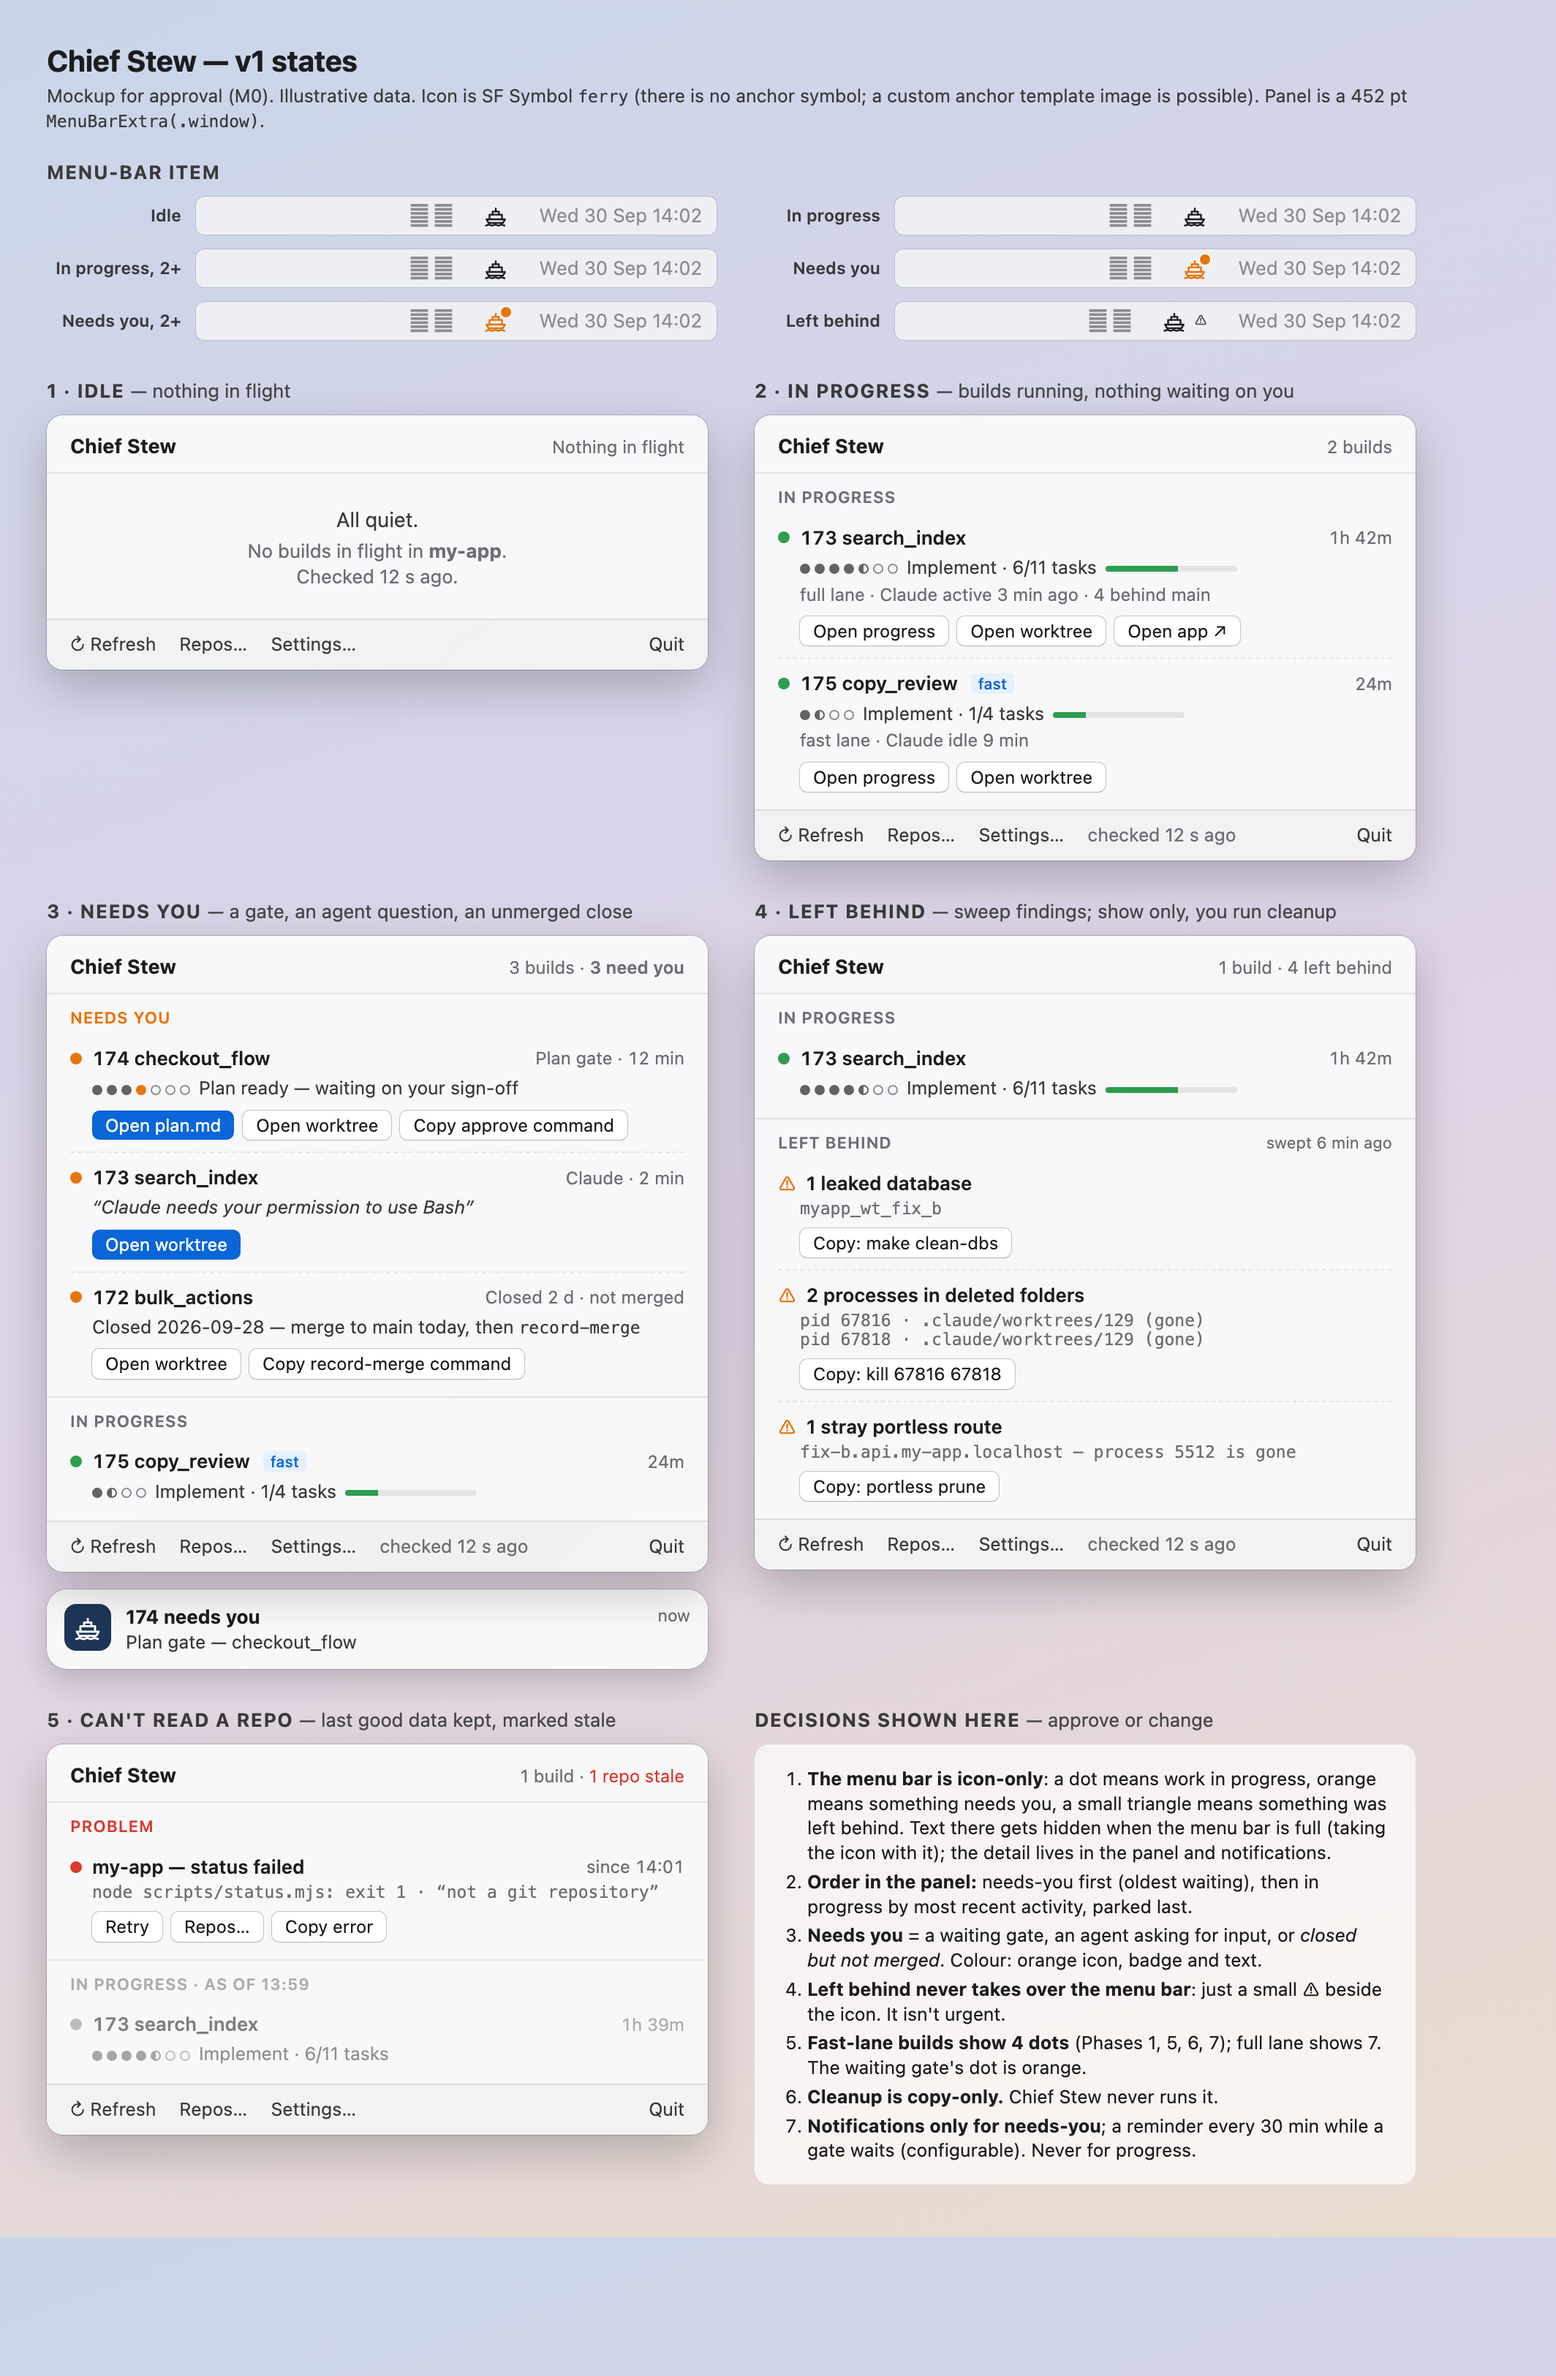
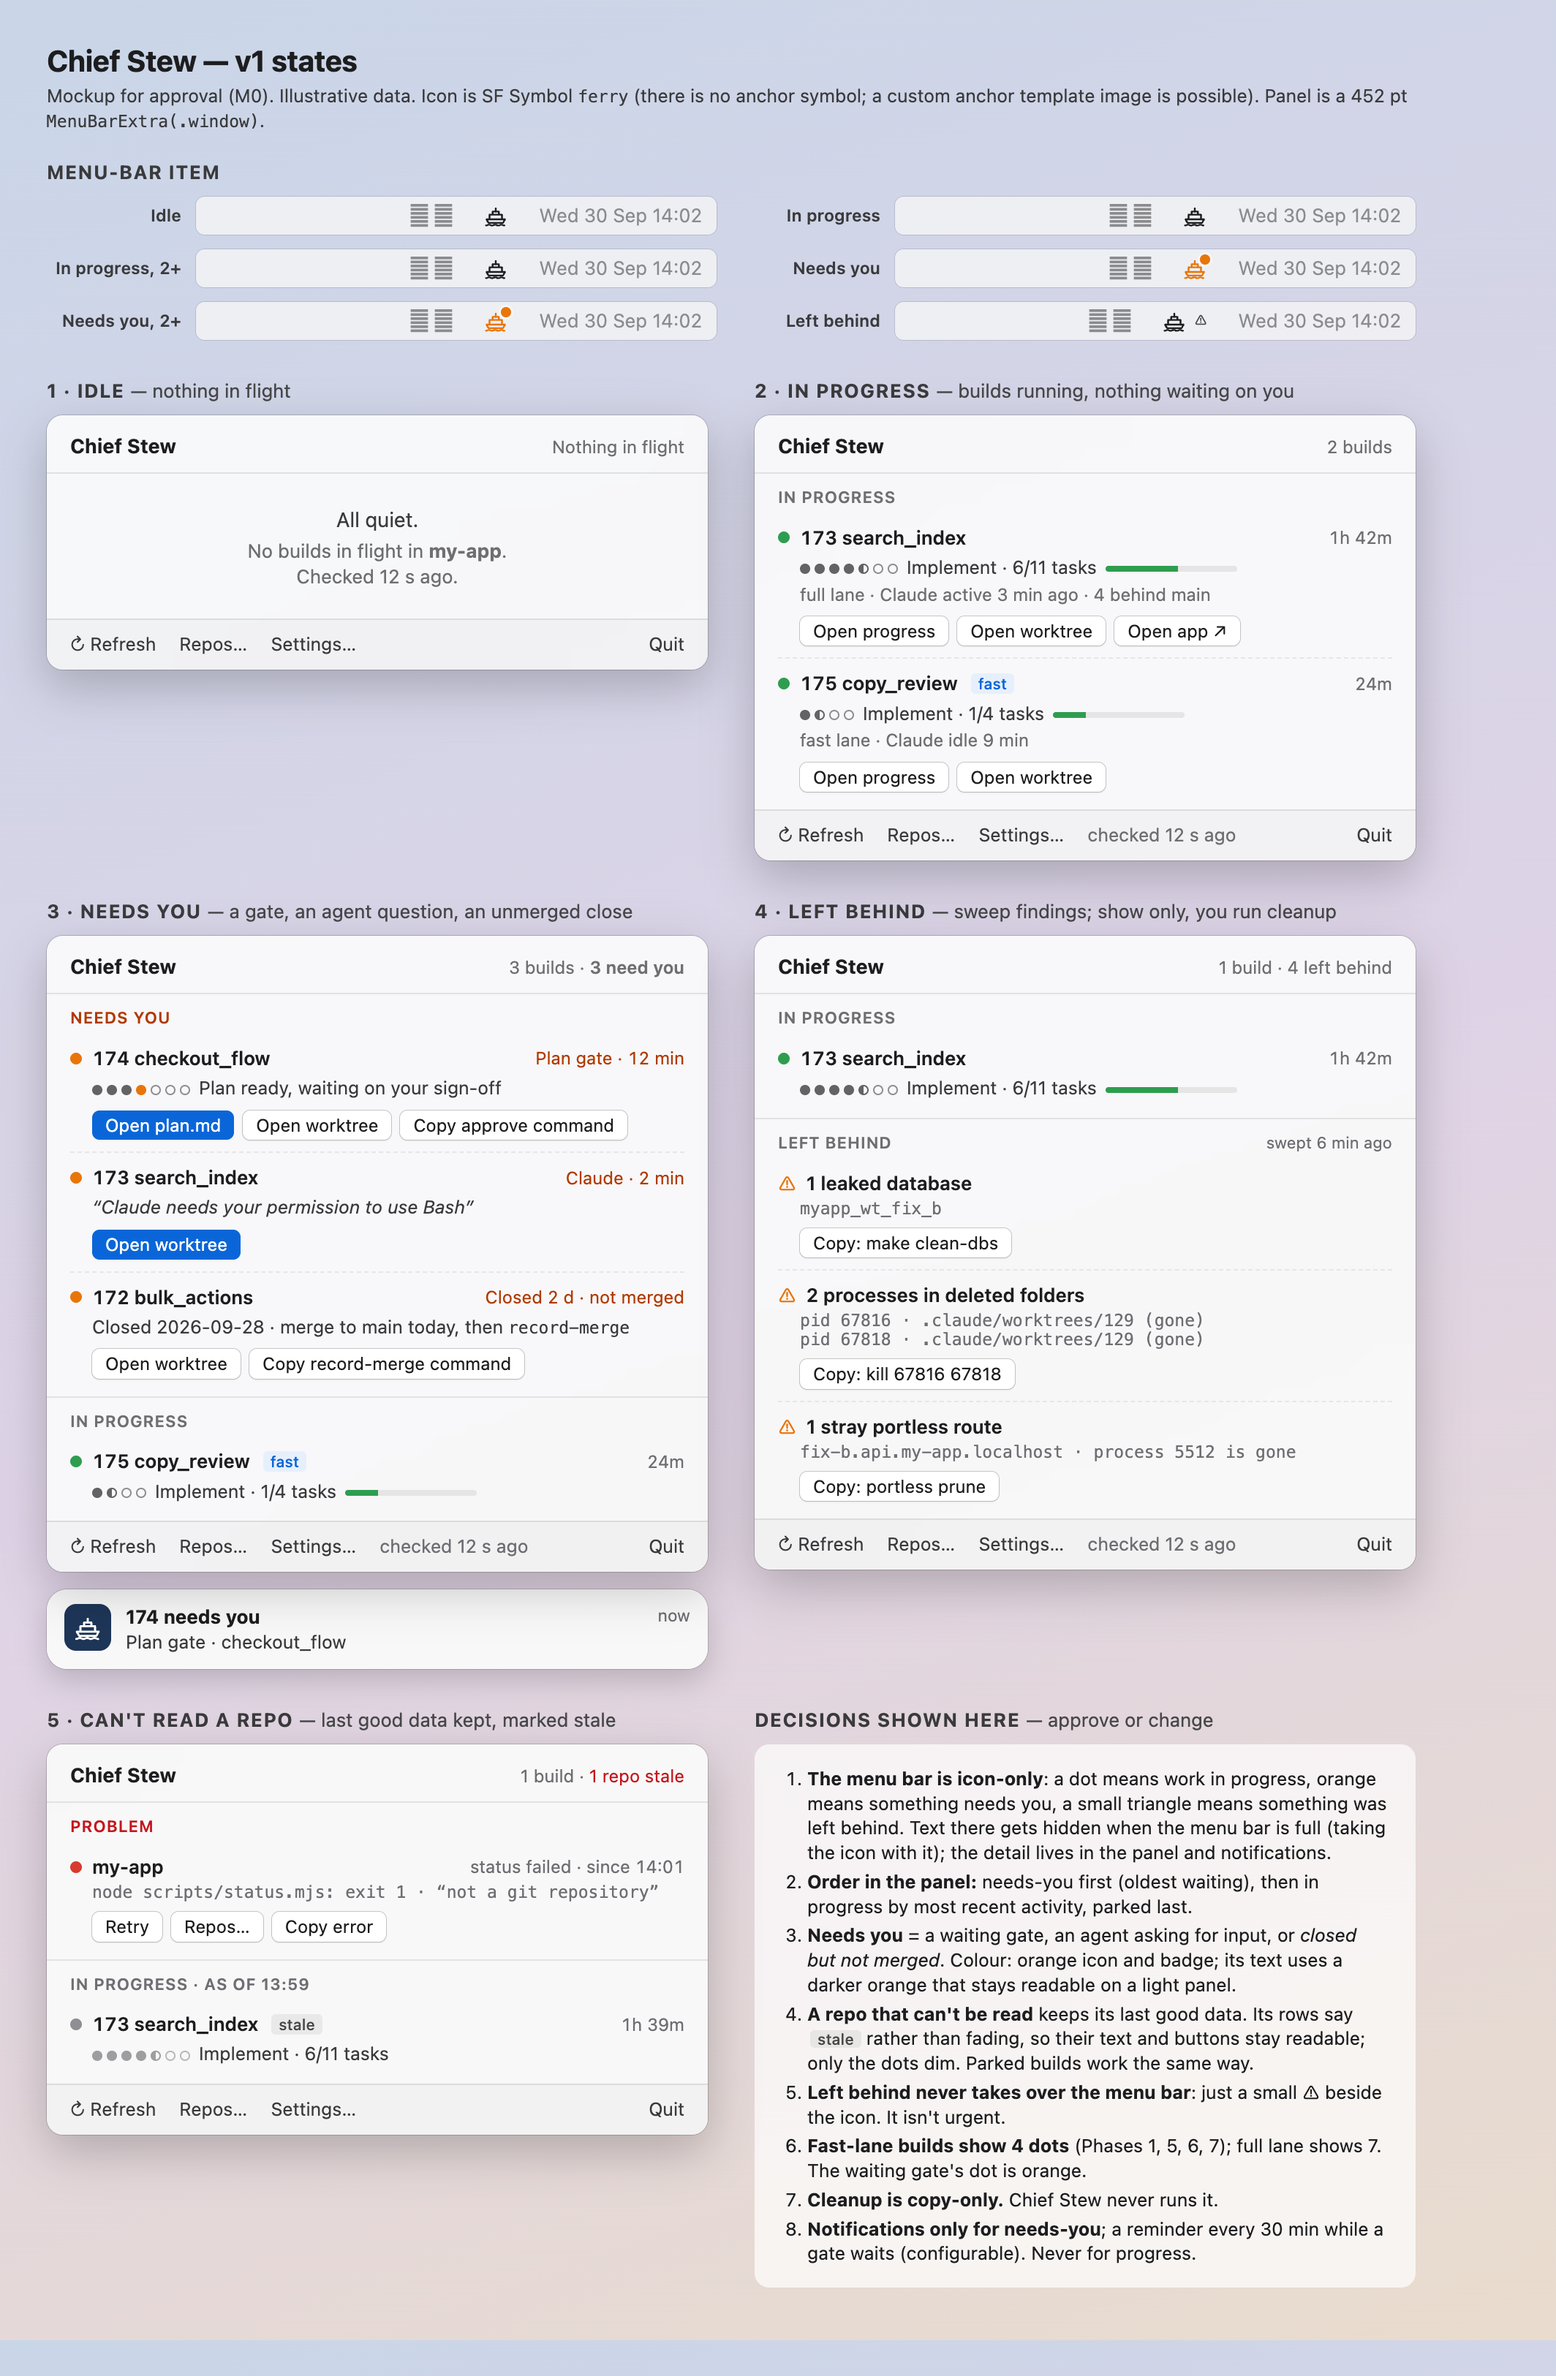
Mockup: match the panel
Panel and notification strings use " · " or a comma instead of em dashes,
as the app now does, and a failing repo's row says "status failed" on the
right. Coloured text uses the darker orange and red that stay readable on a
light panel; icons and dots keep the brighter ones. The stale state tags its
rows instead of fading the section, with only the dots dimmed. Re-rendered
states.png.

diff --git a/docs/mockup/states.html b/docs/mockup/states.html
@@ -5,7 +5,7 @@
 <meta charset="utf-8">
 <title>Chief Stew — states mockup</title>
 <style>
-  :root { --orange:#e8750a; --red:#d93a2f; --green:#2e9d4f; --blue:#0a66d8; --sec:#6e6e73; --ter:#a1a1a6; --sep:rgba(0,0,0,.09); }
+  :root { --orange:#e8750a; --red:#d93a2f; --orange-text:#b03a00; --red-text:#c4161c; --green:#2e9d4f; --blue:#0a66d8; --sec:#6e6e73; --ter:#a1a1a6; --sep:rgba(0,0,0,.09); }
   * { box-sizing:border-box; }
   body { margin:0; padding:28px 32px 36px; font:13px/1.35 -apple-system, "SF Pro Text", system-ui, sans-serif; color:#1d1d1f;
          background:linear-gradient(160deg,#c9d6e8 0%,#dfd3e6 55%,#e9dccd 100%); width:1000px; }
@@ -28,6 +28,7 @@
   .badge { position:absolute; right:-2px; top:-1px; width:7px; height:7px; border-radius:50%; background:var(--orange);
            box-shadow:0 0 0 1.5px rgba(246,246,246,.95); }
   .attn { color:var(--orange); font-weight:600; }
+  .attn-t { color:var(--orange-text); font-weight:600; }
 
   /* panels */
   .grid { display:grid; grid-template-columns:repeat(2, 452px); gap:26px 32px; }
@@ -40,7 +41,7 @@
   .sect + .sect { border-top:1px solid var(--sep); }
   .stitle { font-size:11px; font-weight:600; color:var(--sec); letter-spacing:.04em; text-transform:uppercase; margin-bottom:6px;
             display:flex; justify-content:space-between; }
-  .stitle.o { color:var(--orange); }
+  .stitle.o { color:var(--orange-text); }
   .row { padding:5px 0 8px; }
   .row + .row { border-top:1px dashed rgba(0,0,0,.07); padding-top:8px; }
   .l1 { display:flex; align-items:center; gap:7px; }
@@ -64,6 +65,7 @@
   .tag { font-size:10.5px; padding:0 5px; border-radius:3px; background:rgba(0,0,0,.06); color:#48484a; margin-left:2px; font-weight:500; }
   .tag.fast { background:#e6f0fd; color:var(--blue); }
   .warn { color:var(--orange); }
+  .right.warn { color:var(--orange-text); }
   .empty { padding:22px 16px 20px; text-align:center; color:var(--sec); }
   .empty .big { font-size:14px; color:#3a3a3c; margin-bottom:3px; }
   .foot { display:flex; gap:16px; padding:8px 16px 9px; border-top:1px solid var(--sep); background:rgba(0,0,0,.025); color:#3a3a3c; font-size:12.5px; }
@@ -139,11 +141,11 @@
 <!-- NEEDS YOU -->
 <div class="state"><h2>3 · Needs you <span>— a gate, an agent question, an unmerged close</span></h2>
 <div class="panel">
-  <div class="phead"><b>Chief Stew</b><span>3 builds · <span class="attn">3 need you</span></span></div>
+  <div class="phead"><b>Chief Stew</b><span>3 builds · <span class="attn-t">3 need you</span></span></div>
   <div class="sect"><div class="stitle o">Needs you</div>
     <div class="row">
       <div class="l1"><span class="dot" style="background:var(--orange)"></span><span class="name"><span class="n">174</span> checkout_flow</span><span class="right warn">Plan gate · 12 min</span></div>
-      <div class="l2"><span class="phases"><i class="d"></i><i class="d"></i><i class="d"></i><i class="w"></i><i></i><i></i><i></i></span>Plan ready — waiting on your sign-off</div>
+      <div class="l2"><span class="phases"><i class="d"></i><i class="d"></i><i class="d"></i><i class="w"></i><i></i><i></i><i></i></span>Plan ready, waiting on your sign-off</div>
       <div class="acts"><span class="btn p">Open plan.md</span><span class="btn">Open worktree</span><span class="btn">Copy approve command</span></div>
     </div>
     <div class="row">
@@ -153,7 +155,7 @@
     </div>
     <div class="row">
       <div class="l1"><span class="dot" style="background:var(--orange)"></span><span class="name"><span class="n">172</span> bulk_actions</span><span class="right warn">Closed 2 d · not merged</span></div>
-      <div class="l2">Closed 2026-09-28 — merge to main today, then <span class="mono">record-merge</span></div>
+      <div class="l2">Closed 2026-09-28 · merge to main today, then <span class="mono">record-merge</span></div>
       <div class="acts"><span class="btn">Open worktree</span><span class="btn">Copy record-merge command</span></div>
     </div>
   </div>
@@ -166,7 +168,7 @@
   <div class="foot"><span>↻ Refresh</span><span>Repos…</span><span>Settings…</span><span class="muted">checked 12 s ago</span><span class="q2">Quit</span></div>
 </div>
 <div class="notif"><div class="ic" style="color:#fff"><svg><use href="#ferry"/></svg></div>
-  <div><div style="display:flex"><b>174 needs you</b></div><div class="t">Plan gate — checkout_flow</div></div><span class="ts">now</span></div>
+  <div><div style="display:flex"><b>174 needs you</b></div><div class="t">Plan gate · checkout_flow</div></div><span class="ts">now</span></div>
 </div>
 
 <!-- LEFT BEHIND -->
@@ -192,7 +194,7 @@
     </div>
     <div class="row">
       <div class="l1"><span class="warn">⚠</span><span class="name">1 stray portless route</span></div>
-      <div class="l3 mono">fix-b.api.my-app.localhost — process 5512 is gone</div>
+      <div class="l3 mono">fix-b.api.my-app.localhost · process 5512 is gone</div>
       <div class="acts"><span class="btn">Copy: portless prune</span></div>
     </div>
   </div>
@@ -202,18 +204,18 @@
 <!-- ERROR / STALE -->
 <div class="state"><h2>5 · Can't read a repo <span>— last good data kept, marked stale</span></h2>
 <div class="panel">
-  <div class="phead"><b>Chief Stew</b><span>1 build · <span style="color:var(--red)">1 repo stale</span></span></div>
-  <div class="sect"><div class="stitle" style="color:var(--red)">Problem</div>
+  <div class="phead"><b>Chief Stew</b><span>1 build · <span style="color:var(--red-text)">1 repo stale</span></span></div>
+  <div class="sect"><div class="stitle" style="color:var(--red-text)">Problem</div>
     <div class="row">
-      <div class="l1"><span class="dot" style="background:var(--red)"></span><span class="name">my-app — status failed</span><span class="right">since 14:01</span></div>
+      <div class="l1"><span class="dot" style="background:var(--red)"></span><span class="name">my-app</span><span class="right">status failed · since 14:01</span></div>
       <div class="l3 mono">node scripts/status.mjs: exit 1 · “not a git repository”</div>
       <div class="acts"><span class="btn">Retry</span><span class="btn">Repos…</span><span class="btn">Copy error</span></div>
     </div>
   </div>
-  <div class="sect" style="opacity:.55"><div class="stitle">In progress · as of 13:59</div>
+  <div class="sect"><div class="stitle">In progress · as of 13:59</div>
     <div class="row">
-      <div class="l1"><span class="dot" style="background:#8e8e93"></span><span class="name"><span class="n">173</span> search_index</span><span class="right">1h 39m</span></div>
-      <div class="l2"><span class="phases"><i class="d"></i><i class="d"></i><i class="d"></i><i class="d"></i><i class="a"></i><i></i><i></i></span>Implement · 6/11 tasks</div>
+      <div class="l1"><span class="dot" style="background:#8e8e93"></span><span class="name"><span class="n">173</span> search_index</span><span class="tag">stale</span><span class="right">1h 39m</span></div>
+      <div class="l2"><span class="phases" style="opacity:.6"><i class="d"></i><i class="d"></i><i class="d"></i><i class="d"></i><i class="a"></i><i></i><i></i></span>Implement · 6/11 tasks</div>
     </div>
   </div>
   <div class="foot"><span>↻ Refresh</span><span>Repos…</span><span>Settings…</span><span class="q2">Quit</span></div>
@@ -225,7 +227,8 @@
 <ol style="margin:0;padding-left:18px">
   <li><b>The menu bar is icon-only</b>: a dot means work in progress, orange means something needs you, a small triangle means something was left behind. Text there gets hidden when the menu bar is full (taking the icon with it); the detail lives in the panel and notifications.</li>
   <li><b>Order in the panel:</b> needs-you first (oldest waiting), then in progress by most recent activity, parked last.</li>
-  <li><b>Needs you</b> = a waiting gate, an agent asking for input, or <i>closed but not merged</i>. Colour: orange icon, badge and text.</li>
+  <li><b>Needs you</b> = a waiting gate, an agent asking for input, or <i>closed but not merged</i>. Colour: orange icon and badge; its text uses a darker orange that stays readable on a light panel.</li>
+  <li><b>A repo that can't be read</b> keeps its last good data. Its rows say <span class="tag">stale</span> rather than fading, so their text and buttons stay readable; only the dots dim. Parked builds work the same way.</li>
   <li><b>Left behind never takes over the menu bar</b>: just a small ⚠ beside the icon. It isn't urgent.</li>
   <li><b>Fast-lane builds show 4 dots</b> (Phases 1, 5, 6, 7); full lane shows 7. The waiting gate's dot is orange.</li>
   <li><b>Cleanup is copy-only.</b> Chief Stew never runs it.</li>
